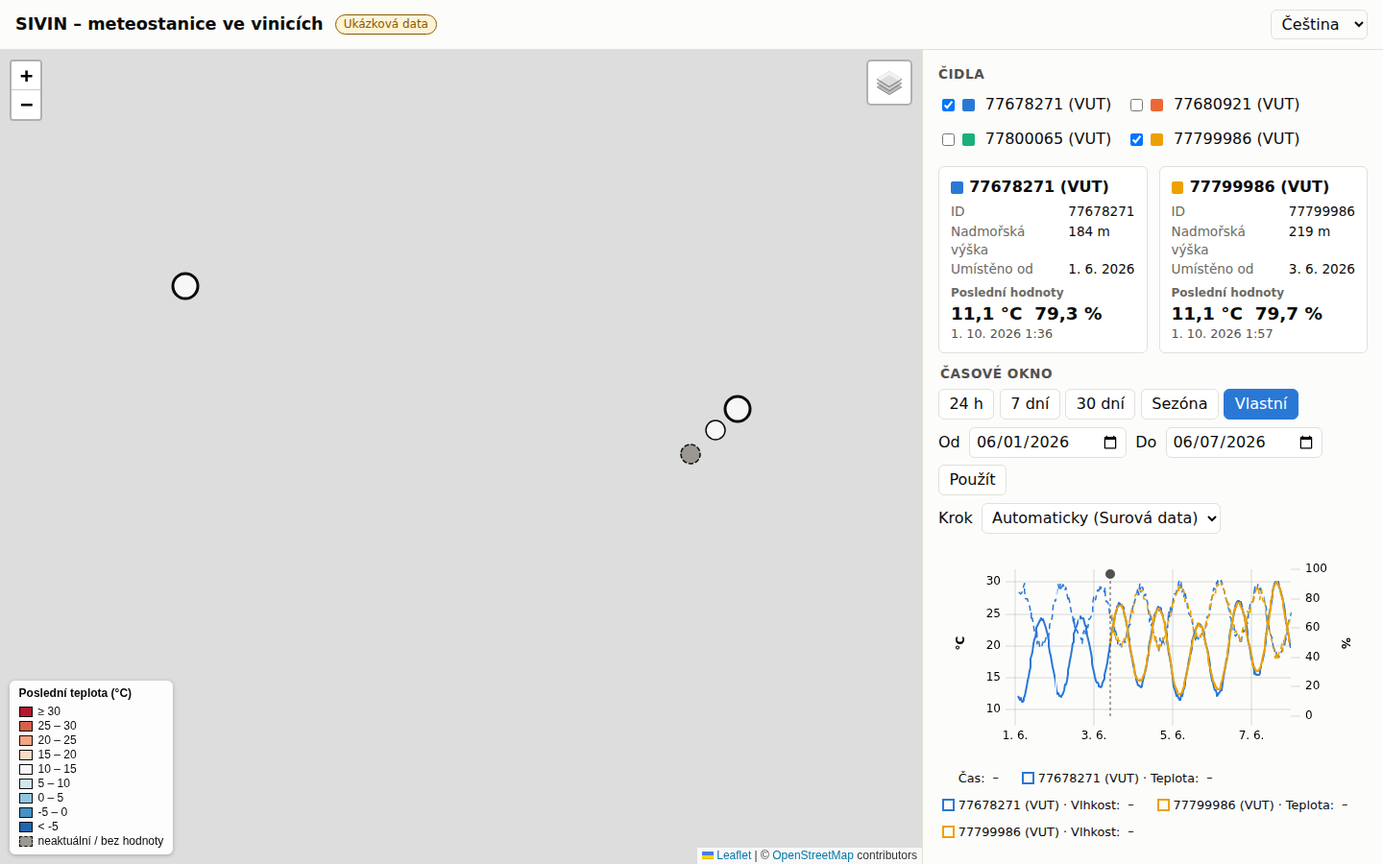
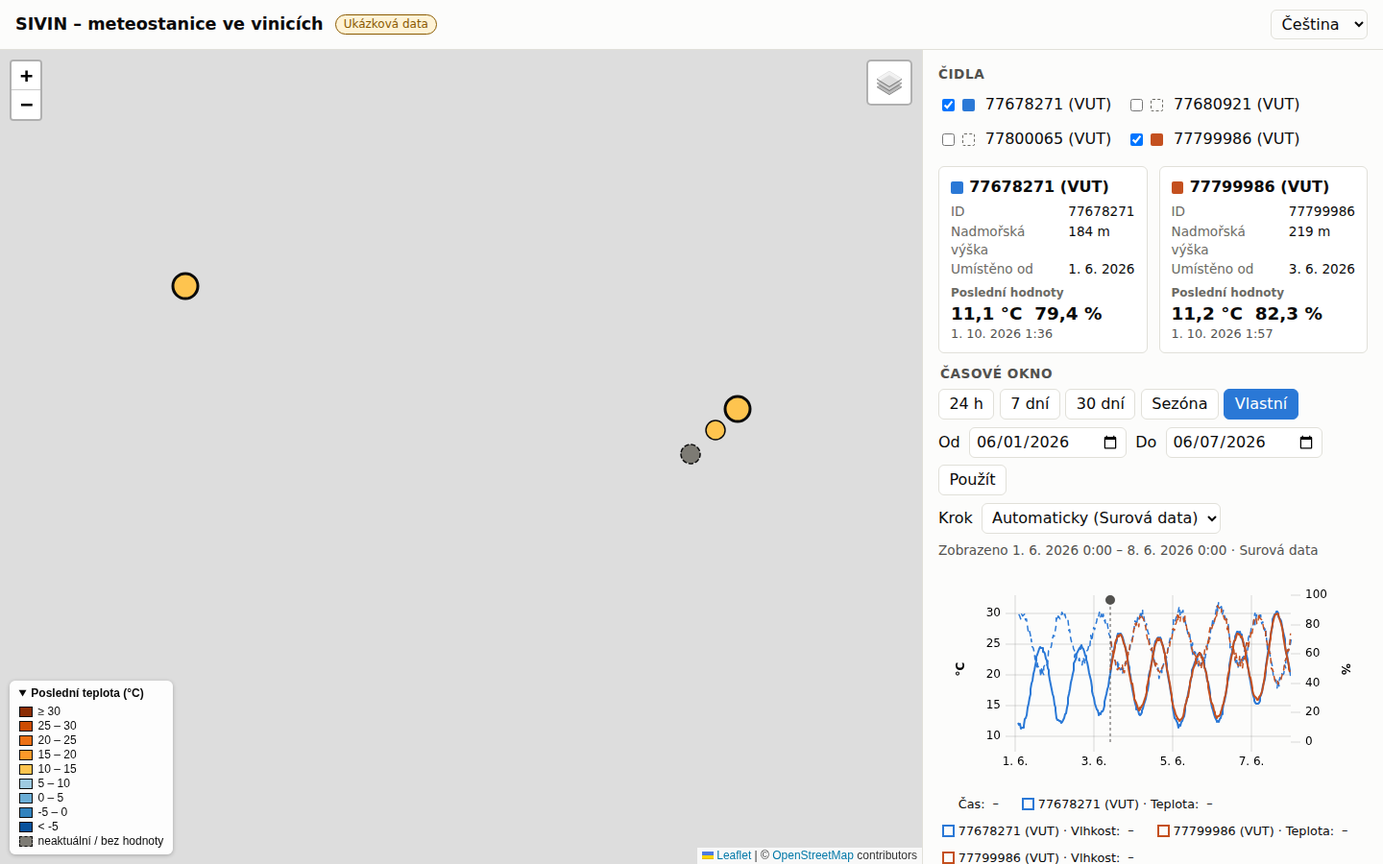
docs(web): update docs, screenshots and hand-off for review round 2 [WP-3.1]
Claude-Session: https://claude.ai/code/session_01QJD7c9yWYF9155kG7NhzWc

diff --git a/docs/wp_log/WP-3.1.md b/docs/wp_log/WP-3.1.md
@@ -13,6 +13,46 @@ the app runs on a deterministic **synthetic** fixture in `web/public/data/` (547
 resolution and language are kept in the URL hash. A CI workflow `.github/workflows/web.yml` runs
 the four web gates. Architecture and usage are in `docs/web.md`.
 
+## Changes in round 2
+
+These address the round-1 review; the statuses are in the Review table below.
+
+- **URL robustness (major):** the hash codec accepts only real calendar dates (they must
+  round-trip through `Date`) and years 2000–2100, for both `from`/`to` and `y`. As a safety net,
+  `ChartPresenter.windowFor` falls back to the default 7-day window if a window cannot be built.
+- **Store notifications are no longer re-entrant,** and `HashSync` always writes the latest
+  state. Unknown sensor ids are now removed from the URL after a `hashchange` (there is a test).
+- **Per-sensor loading:** a sensor that fails gets its own error line above the chart, and the
+  others still render. A missing or invalid events file means "no events" plus a
+  `console.warn`.
+- **QC display mask:** the web uses `DISPLAY_EXCLUDE_MASK`, the default mask without MISSING. A
+  `null` value already means missing, so a valid temperature is no longer hidden when only RH is
+  null. All other excluding flags still hide the whole row.
+- **UTC raw months:** documented in `docs/web.md` as the interpretation WP-3.2 must follow, and
+  added to the owner questions. The month selection was not widened.
+- **Accessibility:**
+  - Map markers are keyboard buttons: `role="button"`, in the tab order, with an accessible
+    name and `aria-pressed`. Enter/Space selects; Ctrl/⌘ + Enter/Space compares.
+  - Only the chart canvas has `role="img"`, so the legend and event buttons stay accessible.
+- **Colours:**
+  - Line colours are assigned in selection order (`SensorColors`) and are stable while a sensor
+    stays selected, so the at most 8 compared sensors never share a colour.
+  - New line palette: all colours ≥ 3:1 against white and colour-blind checked; the ratios are
+    in `docs/web.md`.
+  - The stale fill is darker (4.24:1).
+  - The map scale now has no near-white class: blues below 10 °C and YlOrBr from 10 °C up.
+- **Map legend:** it is a `<details>` element, collapsed by default below 600 px.
+- **Concrete window:** a line under the time controls shows the window actually drawn (local
+  from–to) and the resolution.
+- **Hourly means** are stamped at the bin centre (`h + 1800`).
+- **Point caps:** an explicit raw resolution is capped at 31 days and hourly at 92 days. Beyond
+  that, the next coarser resolution is used.
+- **Fixture:** samples now have ±3 s clock jitter, and the fixture was regenerated (546,421 bytes).
+- **Code structure and tests:**
+  - `SeriesChart` was split; the event markers are now `ui/EventMarkers.ts`.
+  - `App` depends on small view interfaces, and is now covered by a jsdom test with stub views.
+  - `EventMarkers` is tested with a fake uPlot.
+
 ## Changed files
 
 - `web/package.json`, `web/package-lock.json`, `web/tsconfig.json`, `web/vite.config.ts`
@@ -26,9 +66,9 @@ the four web gates. Architecture and usage are in `docs/web.md`.
 - `web/src/state/*`: `Store`, `AppState` (+ selection helpers), `HashStateCodec`
 - `web/src/i18n/*`: `I18n`, `LanguagePreference`, `languages`, `cs`/`de`/`en`
 - `web/src/ui/*`: `App`, `HeaderView`, `MapView`, `SensorPanel`, `SensorList`,
-  `TimeWindowControl`, `SeriesChart`, `HashSync`, `palette`, `dom`; `web/src/styles.css`,
+  `TimeWindowControl`, `SeriesChart`, `EventMarkers`, `SensorColors`, `HashSync`, `palette`, `dom`; `web/src/styles.css`,
   `web/src/main.ts`, `web/src/vite-env.d.ts`
-- `web/tests/**`: 12 test files (96 tests)
+- `web/tests/**`: 14 test files (128 tests)
 - `web/scripts/generate-fixture.mjs`, `web/scripts/screenshot.mjs`
 - `web/public/data/**`: synthetic fixture (29 files incl. `README.md`)
 - `.github/workflows/web.yml`
@@ -43,20 +83,20 @@ Gates, run in `/home/user/wt/wp-3.1/web` after `rm -rf node_modules dist coverag
 ```
 npm run lint       → eslint . (no output, exit 0)
 npm run typecheck  → tsc --noEmit (no output, exit 0)
-npm test           → Test Files  12 passed (12)
-                     Tests  96 passed (96)
-                     Statements   : 99.58% ( 712/715 )
-                     Branches     : 88.53% ( 278/314 )
-                     Functions    : 100% ( 210/210 )
-                     Lines        : 99.56% ( 681/684 )
-npm run build      → dist/index.html 0.84 kB, dist/assets/index-*.css 23 kB,
-                     dist/assets/index-*.js 242 kB (gzip 81 kB), ✓ built
+npm test           → Test Files  14 passed (14)
+                     Tests  128 passed (128)
+                     Statements   : 99.43% ( 875/880 )
+                     Branches     : 89.24% ( 332/372 )
+                     Functions    : 100% ( 239/239 )
+                     Lines        : 99.4% ( 842/847 )
+npm run build      → dist/assets/index-*.css 23.5 kB,
+                     dist/assets/index-*.js 246.6 kB (gzip 82.0 kB), ✓ built
 ```
 
 - **Coverage scope:** `src/**/*.ts`, minimum 85 % lines (enforced in `vite.config.ts`).
-  Excluded as thin glue: `src/main.ts`, `src/ui/App.ts`, `src/ui/MapView.ts` (Leaflet) and
-  `src/ui/SeriesChart.ts` (uPlot/canvas). The DOM components without those libraries are tested
-  under jsdom.
+  Excluded as thin glue: `src/main.ts`, `src/ui/MapView.ts` (Leaflet) and
+  `src/ui/SeriesChart.ts` (uPlot/canvas). `App` (stub views), `EventMarkers` (fake uPlot) and
+  the other DOM components are tested under jsdom.
 - **Tests with hand-computed expectations:**
   - Contract validation: the whole fixture passes, and broken files fail with exact messages.
   - `DataClient.getRawRange`: month selection across a boundary, windows outside the data,
@@ -83,7 +123,17 @@ npm run build      → dist/index.html 0.84 kB, dist/assets/index-*.css 23 kB,
   - The language switch updates the title, the hash and `localStorage`.
   - An unknown sensor id in the hash is dropped.
   - Event markers are rendered.
-- **Fixture:** `npm run fixture` is deterministic (same md5 on rerun). It is 546,574 bytes,
+- **Round 2 browser checks:** headless Chromium against `vite preview`, using the reviewer's
+  `drive2.mjs` plus my own script. No page errors in any of them:
+  - URLs with `to=2026-13-45`, `0001…9999` + `r=hourly`, `y=0000`, and a `hashchange` to
+    `2026-02-30` all fall back to `w=7d` and the chart renders.
+  - All four markers have `tabindex=0`, `role=button` and a name like
+    `77678271 (VUT): 11,1 °C`, and Enter on a marker selects it.
+  - With a 404 on one raw month of 77680921 and on `events/77678271.json`, one per-sensor error
+    line is shown and 77678271 still renders.
+  - The canvas has `role=img`; the plot host has no role.
+  - The legend is collapsed at 390 px and opens on click; it is open at 1440 px.
+- **Fixture:** `npm run fixture` is deterministic (same md5 on rerun). It is 546,421 bytes,
   well under 3 MB.
 
 Screenshots (Chromium, `npm run screenshot`). Map tiles are **blank** because the sandbox cannot
@@ -106,12 +156,13 @@ reach the OpenStreetMap tile servers:
   synthetic fixture.
 - **Browsers and devices:** only headless Chromium was tested; no Firefox, Safari or real phones.
   No screen-reader test was done.
-- **Map keyboard access:** Leaflet circle markers are not keyboard-focusable. The keyboard path is
-  the checkbox list in the panel.
+- **Map keyboard access:** since round 2 the markers are keyboard buttons (Tab, Enter/Space,
+  Ctrl/⌘ + Enter/Space). This was checked only in headless Chromium, with no screen reader. In
+  round 1 this note wrongly said the markers were not focusable.
 - **Date inputs:** the native `<input type="date">` shows the browser's locale (US format in
   headless Chromium), not the UI language.
-- **`ui/App.ts`:** not unit-tested. Its behaviour was only checked with the headless interaction
-  script above, which is not committed.
+- **Event markers and per-sensor errors:** checked in Chromium and with jsdom tests; not checked
+  with a screen reader.
 
 ## Deviations from the brief (and why)
 
@@ -129,10 +180,12 @@ reach the OpenStreetMap tile servers:
   30 Sep, would show an empty 24 h / 7 d chart; real data lag behind by up to a cron interval.
 - **7 d / 30 d count local calendar days** (same wall-clock time), so they are 7 d ± 1 h across a
   DST change. 24 h is exactly 86,400 s.
-- **QC-excluded samples are hidden at raw resolution too**, not only in hourly means, so the
+- **QC-excluded samples are hidden at raw resolution too** (with `DISPLAY_EXCLUDE_MASK` since round 2, i.e. MISSING is handled per value), not only in hourly means, so the
   office period of a sensor appears as a gap before its deployment marker.
-- **Hourly means are stamped with the start of the hour.**
-- **Comparison is capped at 8 sensors**, the size of the colour-blind-checked palette. A further
+- **Hourly means are stamped at the centre of the hour** (round 2; round 1 used the start).
+- **Point caps:** an explicitly chosen raw resolution is capped at 31 days and hourly at 92
+  days; beyond that, the next coarser resolution is used.
+- **Comparison is capped at 8 sensors**, the size of the colour-blind-checked palette. Colours are assigned in selection order. A further
   sensor is refused with a message.
 - **The fixture placement dates are synthetic** (1 Jun 2026, and 3 Jun for 77799986). The plan's
   §2.4 example uses `2025-12-01` as its own placeholder. Real dates wait for Q3.
@@ -164,10 +217,27 @@ reach the OpenStreetMap tile servers:
 2. **Two y-axes:** temperature (left) and humidity (right) share one chart, as the brief
    requires. Dataviz guidelines advise against dual axes; the alternative is two stacked charts
    with a shared time axis. Keep it as is?
-3. **Marker colours:** the map's neutral class 10–15 °C is almost white, so on a mild day the
+3. **Marker colours** (resolved in round 2: the scale now uses blues below 10 °C and YlOrBr
+   from 10 °C up, with no near-white class; please confirm you like it). Original question: the map's neutral class 10–15 °C is almost white, so on a mild day the
    markers look empty (see the desktop screenshot, 11 °C). Is the diverging scale centred near
    the vine base temperature acceptable, or would you prefer a sequential scale?
-4. **Should relative presets end at "now"** instead of at the end of the data?
+4. **Should relative presets end at "now"** instead of at the end of the data? The concrete
+   window is now shown under the controls.
+5. **Contract clarification of §2.6: raw months are UTC months.** The web reads
+   `raw/<YYYY-MM>.json` as the UTC calendar month and expects `raw_months` to list UTC keys.
+   §2.6 does not say this. Please confirm, so that WP-3.2 writes UTC months; with local months,
+   up to two hours around each month boundary would be lost.
+6. **Per-variable QC flags:** `qc` is one value per row, but a row holds two variables. WP-0.1
+   raised the same question. Until it is decided:
+   - the web ignores MISSING for display (`null` already marks a missing value);
+   - every other excluding flag hides both variables of the row, so a temperature SPIKE also
+     hides that row's humidity.
+
+   Should `qc` become per variable (e.g. `qc_temp`, `qc_rh`)? That would be a contract change.
+7. **Complete list of lenient readings** (reviewer nit 12), adding to question 1: the validators
+   also accept a missing `site`, `variety` or `notes` in the registry (read as `null`), and
+   `null` for an index `value`. The cleaner contract is that WP-3.2 always writes these keys,
+   with `null` where needed.
 
 ## Review
 
@@ -211,21 +281,21 @@ Lint and typecheck: clean. Vitest: 12 files, 96 tests passed; lines 99.56 %, bra
 
 | Severity | File:line | Finding | Status |
 |---|---|---|---|
-| major | web/src/state/HashStateCodec.ts:79, web/src/domain/TimeZone.ts:111, web/src/domain/TimeWindowFactory.ts:68 | A malformed custom date in a shared URL breaks the whole app | open |
-| minor | web/src/ui/HashSync.ts:18 (with web/src/ui/App.ts:85-88) | After a `hashchange`, unknown sensor ids stay in the URL | open |
-| minor | web/src/app/ChartDataLoader.ts:53 | One missing or unexpected events file (or one failing raw month) fails the chart for every selected sensor | open |
-| minor | web/src/domain/RawSeries.ts:73 | The row-level `qc` with MISSING hides a valid temperature when only RH is missing (seen in the fixture) | open (owner question) |
-| minor | web/src/data/DataClient.ts:102 | `raw/<YYYY-MM>` is read as a UTC month, which §2.6 does not say | open (owner question) |
-| minor | web/src/ui/MapView.ts:62 | Map markers are unnamed, inoperable tab stops; the hand-off says they are not focusable | open |
-| minor | web/src/ui/SeriesChart.ts:65 | `role="img"` wraps the uPlot legend and the focusable event-marker buttons | open |
-| minor | web/src/ui/palette.ts:19 | Colour by registry index wraps at 8, so two compared sensors can share a colour | open |
-| minor | web/src/ui/palette.ts:7-16 | Several sensor line colours are below 3:1 against white | open |
-| minor | web/src/ui/TimeWindowControl.ts (render) | Relative presets end at the data end, but the concrete window is never shown | open |
-| nit | web/src/domain/Resampler.ts:56 | Hourly means stamped at the start of the hour draw 30 min early compared with raw | open |
-| nit | web/src/contract/validateSensors.ts:39-45, validateMeta.ts:394 | Lenient readings go beyond the hand-off list | open |
-| nit | web/src/domain/Resampler.ts:44-45 | No bound on the hourly bin count | open |
-| nit | web/scripts/generate-fixture.mjs | The fixture step is exactly 1825 s with no clock drift or jitter | open |
-| nit | web/vite.config.ts:310-315 | `App.ts` is excluded from coverage, but it is coordination logic | open |
+| major | web/src/state/HashStateCodec.ts:79, web/src/domain/TimeZone.ts:111, web/src/domain/TimeWindowFactory.ts:68 | A malformed custom date in a shared URL breaks the whole app | fixed (round 2): only real dates in years 2000–2100 are accepted; `windowFor` falls back to the default window; tests added |
+| minor | web/src/ui/HashSync.ts:18 (with web/src/ui/App.ts:85-88) | After a `hashchange`, unknown sensor ids stay in the URL | fixed (round 2): store notifications are not re-entrant and `HashSync` writes the latest state; `App.test.ts` covers this |
+| minor | web/src/app/ChartDataLoader.ts:53 | One missing or unexpected events file (or one failing raw month) fails the chart for every selected sensor | fixed (round 2): data load per sensor with a per-sensor error line; events fall back to none plus a warning |
+| minor | web/src/domain/RawSeries.ts:73 | The row-level `qc` with MISSING hides a valid temperature when only RH is missing (seen in the fixture) | fixed in the web (round 2): `DISPLAY_EXCLUDE_MASK` without MISSING, documented; per-variable QC is open question 6 |
+| minor | web/src/data/DataClient.ts:102 | `raw/<YYYY-MM>` is read as a UTC month, which §2.6 does not say | accepted (round 2): UTC months kept and documented in `docs/web.md` for WP-3.2; open question 5 |
+| minor | web/src/ui/MapView.ts:62 | Map markers are unnamed, inoperable tab stops; the hand-off says they are not focusable | fixed (round 2): `role=button`, a name, `aria-pressed`, Enter/Space; docs updated |
+| minor | web/src/ui/SeriesChart.ts:65 | `role="img"` wraps the uPlot legend and the focusable event-marker buttons | fixed (round 2): `role=img` and the name are on the canvas only |
+| minor | web/src/ui/palette.ts:19 | Colour by registry index wraps at 8, so two compared sensors can share a colour | fixed (round 2): colours are assigned in selection order and stay stable while selected (`SensorColors`) |
+| minor | web/src/ui/palette.ts:7-16 | Several sensor line colours are below 3:1 against white | fixed (round 2): new palette with all colours ≥ 3:1 and CVD checked; ratios documented and tested |
+| minor | web/src/ui/TimeWindowControl.ts (render) | Relative presets end at the data end, but the concrete window is never shown | fixed (round 2): a "Zobrazeno from – to · resolution" line under the controls |
+| nit | web/src/domain/Resampler.ts:56 | Hourly means stamped at the start of the hour draw 30 min early compared with raw | fixed (round 2): stamped at the bin centre |
+| nit | web/src/contract/validateSensors.ts:39-45, validateMeta.ts:394 | Lenient readings go beyond the hand-off list | accepted (round 2): the lenient readings are kept, and the complete list is now open question 7 |
+| nit | web/src/domain/Resampler.ts:44-45 | No bound on the hourly bin count | fixed (round 2): URL years are limited to 2000–2100, explicit hourly is capped at 92 days and raw at 31 days |
+| nit | web/scripts/generate-fixture.mjs | The fixture step is exactly 1825 s with no clock drift or jitter | fixed (round 2): ±3 s Gaussian clock jitter added |
+| nit | web/vite.config.ts:310-315 | `App.ts` is excluded from coverage, but it is coordination logic | fixed (round 2): `App` is covered by a jsdom test with stub views; `SeriesChart` was split (204 lines incl. imports; `EventMarkers` is 91) |
 
 #### Details
 

diff --git a/docs/web.md b/docs/web.md
@@ -42,7 +42,7 @@ main.ts  (composition root: builds every object, injects collaborators through c
   ├─ state/     Store<T>, AppState, HashStateCodec                    (no DOM)
   ├─ i18n/      I18n, LanguagePreference, cs/de/en dictionaries
   └─ ui/        App, HeaderView, MapView, SensorPanel, SensorList, TimeWindowControl,
-                SeriesChart, HashSync, palette, dom
+                SeriesChart, EventMarkers, SensorColors, HashSync, palette, dom
 ```
 
 Dependencies point downwards only: `ui` → `app` → `domain`/`data` → `contract`. There are no
@@ -53,24 +53,26 @@ globals or singletons; `main.ts` is the only place that touches `window`, `fetch
 |---|---|
 | `contract/types.ts` | TypeScript mirror of §2.6 (`Manifest`, `LatestFile`, `RawMonthFile`, `DailyFile`, `EventsFile`, `IndicesFile`, `SensorsGeoJSON` with the registry properties of §2.4). |
 | `contract/validate*.ts`, `FieldReader`, `ContractError` | Hand-written runtime validation of every file. A mismatch throws `ContractError` with file, JSON path and problem, e.g. `manifest.json: $.schema_version must be one of [1], got 2`. Unknown extra fields are ignored (forward compatible); `schema_version` must be exactly 1. |
-| `data/DataClient` | Fetches contract files relative to the data base URL, validates and caches them (one request per file per page load; failed requests are retried on the next call). `getRawRange(id, start, end)` picks the UTC months overlapping `[start, end)` that the manifest lists, fetches them in parallel and merges them into one `RawSeries`. A listed month that cannot be loaded is an error; months not listed are skipped. |
+| `data/DataClient` | Fetches contract files relative to the data base URL, validates and caches them (one request per file per page load; failed requests are retried on the next call). `getRawRange(id, start, end)` picks the **UTC** months overlapping `[start, end)` that the manifest lists, fetches them in parallel and merges them into one `RawSeries`. A listed month that cannot be loaded is an error; months not listed are skipped. |
 | `domain/RawSeries` | Columnar raw samples of one sensor, merged from monthly files, sorted by `t`, one sample per time. |
 | `domain/TimeSeries` | Immutable value object of one variable (`t[]`, `values[]`, `null` = no valid value). `withGapBreaks` inserts `null` where samples are too far apart so charts draw gaps. |
-| `domain/QcFlags` | `QcFlag` bits and `DEFAULT_EXCLUDE_MASK` = MISSING \| OUT_OF_RANGE \| SPIKE \| STUCK \| PRE_DEPLOYMENT \| MANUAL_EXCLUDE (§2.7); `QcMask` decides exclusion. |
-| `domain/Resampler` | Raw → chart series: QC-masked raw values (gap threshold 3 × 1825 s), or hourly means over UTC hours (time = start of the hour; an hour without valid values is `null`). Daily values are not computed in the browser; they come from `daily.json`. |
+| `domain/QcFlags` | `QcFlag` bits, `DEFAULT_EXCLUDE_MASK` = MISSING \| OUT_OF_RANGE \| SPIKE \| STUCK \| PRE_DEPLOYMENT \| MANUAL_EXCLUDE (§2.7) and the web's `DISPLAY_EXCLUDE_MASK` (the same without MISSING, see below); `QcMask` decides exclusion. |
+| `domain/Resampler` | Raw → chart series: QC-masked raw values (gap threshold 3 × 1825 s), or hourly means over UTC hours, stamped at the **centre** of the hour (`h + 1800`) so they line up with raw samples; an hour without valid values is `null`. Daily values are not computed in the browser; they come from `daily.json`. |
 | `domain/TimeZone` | Unix seconds ↔ wall-clock time of an IANA zone via `Intl` (DST-aware): local midnights, shifting by local days. |
 | `domain/WindowSpec`, `TimeWindow`, `TimeWindowFactory`, `ResolutionPolicy` | What the user asked for (`24h` / `7d` / `30d` / `season` / `custom`) → a concrete `[startT, endT)` with a resolution. Details below. |
 | `domain/alignSeries` | Puts several series on one union time axis for uPlot (`undefined` = no sample, skipped; `null` = gap). |
-| `app/SensorCatalog` | Joins `sensors.geojson`, manifest and `latest.json` into `SensorInfo` per sensor; colour index = registry position. |
-| `app/ChartDataLoader` | Loads raw / hourly / daily series and in-window events for the selected sensors. |
-| `app/ChartPresenter` | Resolves the window from the state, shows "loading", the data or an error; drops responses of superseded requests. |
-| `state/Store`, `AppState`, `HashStateCodec` | Observable immutable state (selection, window, resolution, language) and its URL-hash form, e.g. `#s=77678271,77680921&w=7d&r=hourly&lang=cs`, `#w=season&y=2026`, `#w=custom&from=2026-06-01&to=2026-06-15`. `r` is omitted for automatic resolution. |
+| `app/SensorCatalog` | Joins `sensors.geojson`, manifest and `latest.json` into `SensorInfo` per sensor. |
+| `app/ChartDataLoader` | Loads raw / hourly / daily series and in-window events **per sensor** (`Promise.allSettled`): a sensor whose series fail becomes a failure entry shown as a per-sensor error above the chart, the other sensors still render. A missing or invalid events file degrades to "no events" with a `console.warn`. |
+| `app/ChartPresenter` | Resolves the window from the state (falling back to the default window if a spec cannot be resolved), shows "loading", the data or an error; drops responses of superseded requests. |
+| `state/Store`, `AppState`, `HashStateCodec` | Observable immutable state (selection, window, resolution, language) and its URL-hash form, e.g. `#s=77678271,77680921&w=7d&r=hourly&lang=cs`, `#w=season&y=2026`, `#w=custom&from=2026-06-01&to=2026-06-15`. `r` is omitted for automatic resolution. Store notifications are not re-entrant: an update made inside a listener is applied at once but notified after the current change. The codec accepts only real calendar dates (they must round-trip through `Date`) and years 2000–2100; anything else in the hash is ignored. |
 | `i18n/I18n`, `LanguagePreference` | UI strings cs (default) / de / en, manifest labels, number/date formatting. Lookup: language → Czech → key. The language is stored in `localStorage` (every access in `try/catch`). Priority at start: URL hash → stored preference → Czech. |
-| `ui/MapView` | Leaflet map, OSM tiles (layer switch to OpenTopoMap), fit to sensors, circle markers coloured by latest temperature, grey with dashed outline when `stale` or missing, tooltip (label, value, local time), legend. Click selects one sensor, ctrl/⌘-click toggles it in the comparison. |
+| `ui/MapView` | Leaflet map, OSM tiles (layer switch to OpenTopoMap), fit to sensors, circle markers coloured by latest temperature, grey with dashed outline when `stale` or missing, tooltip (label, value, local time), legend as a `<details>` element (collapsed by default below 600 px). Click selects one sensor, ctrl/⌘-click toggles it in the comparison. Markers are keyboard controls: `role="button"`, in the tab order, accessible name "label: value", `aria-pressed` for the selection; Enter/Space selects, Ctrl/⌘ + Enter/Space compares. |
 | `ui/SensorPanel` | Right-hand panel (bottom sheet ≤ 760 px, collapsible): sensor list, metadata and latest values of the selected sensors, time-window controls, chart. |
 | `ui/SensorList` | Checkbox list of all sensors (keyboard path to the comparison). |
-| `ui/TimeWindowControl` | Preset buttons (`aria-pressed`), season year, custom from–to form, resolution selector whose "automatic" entry names the resolution it picks. |
-| `ui/SeriesChart` | uPlot chart: temperature (left axis, °C, solid) and relative humidity (right axis, %, dashed), one colour per sensor, events as dashed vertical lines with focusable markers and tooltips, x axis in the display time zone, resizes with its container. |
+| `ui/TimeWindowControl` | Preset buttons (`aria-pressed`), season year, custom from–to form, resolution selector whose "automatic" entry names the resolution it picks, and a line with the concrete window and resolution actually shown ("Zobrazeno 24. 9. 2026 0:00 – 1. 10. 2026 0:00 · Surová data"). |
+| `ui/SeriesChart` | uPlot chart: temperature (left axis, °C, solid) and relative humidity (right axis, %, dashed), one colour per compared sensor, x axis in the display time zone, resizes with its container, per-sensor load errors above it. Only the canvas has `role="img"` and a name; the legend table and event buttons stay in the accessibility tree. |
+| `ui/EventMarkers` | Sensor events on the chart: dashed vertical lines plus one focusable button per event with an accessible name and a tooltip (type, sensor, time, confidence, detail). |
+| `ui/SensorColors` | Line colours of the compared sensors, assigned in selection order; a sensor keeps its colour while selected, a new one takes the first free colour, so the (at most 8) compared sensors never share a colour. |
 | `ui/HeaderView` | Title, "demo data" badge, language switch. |
 | `ui/App` | Coordinates store and views: user actions update the store, changes re-render views and reload the chart. |
 | `ui/HashSync` | Two-way binding between store and `location.hash` (`replaceState`, no history spam). |
@@ -86,20 +88,47 @@ globals or singletons; `main.ts` is the only place that touches `window`, `fetch
 - `custom` = whole local days from–to, both inclusive.
 - Automatic resolution (`ResolutionPolicy`): ≤ 8 days raw, ≤ 62 days hourly, longer daily. The
   user can override it; the choice is part of the URL.
+- Point caps for an explicit choice: raw up to 31 days (+1 h; ≈ 1470 samples per sensor), hourly
+  up to 92 days (+1 h; ≤ 2209 points per sensor). Beyond a cap the next coarser resolution is
+  used, and the "shown" line under the controls names the resolution actually drawn.
+- A window that cannot be built (it should not happen after hash validation) falls back to the
+  default 7-day window instead of failing.
 
 ### Quality flags in the chart
 
-Samples whose QC flags hit `DEFAULT_EXCLUDE_MASK` are shown as gaps at raw resolution and left
-out of hourly means. Daily values are taken from `daily.json` as delivered by the pipeline.
-STEP, NEIGHBOR_OUTLIER and TIMESTAMP_SUSPECT are informative and do not hide data.
+`qc` is one flag set per row (§2.5/§2.6), while a row holds two values. The web therefore uses
+`DISPLAY_EXCLUDE_MASK` = OUT_OF_RANGE | SPIKE | STUCK | PRE_DEPLOYMENT | MANUAL_EXCLUDE, i.e. the
+plan's DEFAULT_EXCLUDE **without MISSING**:
+
+- MISSING is handled per value: a `null` value is missing, so a valid temperature is not hidden
+  because the humidity of the same row is `null` (and vice versa).
+- Every other excluding flag hides the whole row (both variables) at raw resolution and leaves
+  it out of hourly means. A temperature SPIKE therefore also hides that row's humidity; per-variable
+  QC flags would need a contract change (owner question).
+- STEP, NEIGHBOR_OUTLIER and TIMESTAMP_SUSPECT are informative and do not hide data.
+- Daily values are taken from `daily.json` as delivered by the pipeline.
 
 ### Colours
 
-- Map: classed diverging scale, ColorBrewer RdBu (9 classes, reversed; colour-blind safe), edges
-  −5 … 30 °C in 5 °C steps. The neutral class 10–15 °C contains 10 °C, the base temperature of
-  grapevine growing-degree days. Stale/missing = grey fill with dashed outline (not colour alone).
-- Chart: up to 8 compared sensors, categorical palette validated for colour-vision deficiency on
-  adjacent pairs; a sensor keeps its colour (registry order), temperature solid, humidity dashed.
+- Map: classed diverging scale with 9 classes, edges −5 … 30 °C in 5 °C steps. Below 10 °C (the
+  base temperature of grapevine growing-degree days) four blues from ColorBrewer "Blues", from
+  10 °C up five yellow-orange-browns from ColorBrewer "YlOrBr". There is no near-white class, so a
+  marker never looks empty; blue/orange is the pair best kept under colour-vision deficiency.
+  Stale/missing = grey fill `#7d7b74` with a dashed outline (not colour alone).
+- Chart: up to 8 compared sensors; temperature solid, humidity dashed. Line colours, checked with
+  the dataviz palette validator (light surface `#fcfcfb`; worst adjacent CVD ΔE 8.6, normal-vision
+  ΔE 15.8) and all ≥ 3:1 against white (WCAG 1.4.11):
+
+  | Colour | Contrast vs `#ffffff` |
+  |---|---|
+  | `#2a78d6` | 4.42 |
+  | `#c4501f` | 4.65 |
+  | `#0e8a5f` | 4.36 |
+  | `#9a6b00` | 4.69 |
+  | `#c2457a` | 4.74 |
+  | `#008300` | 4.95 |
+  | `#4a3aa7` | 8.56 |
+  | `#c62f2f` | 5.46 |
 
 ## Data loading (contract §2.6)
 
@@ -107,13 +136,22 @@ On start the app loads `manifest.json`, `sensors.geojson` and `latest.json` in p
 chart reload fetches, per selected sensor, `events/<id>.json` plus either the needed
 `series/<id>/raw/<YYYY-MM>.json` months (raw and hourly) or `series/<id>/daily.json` (daily).
 Every file is validated before use; a contract violation is shown as an error message in the
-panel instead of a silently wrong chart. `indices/<season>.json` is typed, validated and
+panel instead of a silently wrong chart.
+
+**Raw month files are UTC months.** `series/<id>/raw/<YYYY-MM>.json` contains exactly the samples
+with `t` in that calendar month in **UTC** (e.g. `2026-07` = `[2026-07-01T00:00Z,
+2026-08-01T00:00Z)`), and `raw_months` lists those UTC keys. §2.6 does not say this explicitly;
+this is the interpretation the web implements and **WP-3.2 (`SiteBuilder`) must follow** (it
+matches §1.5 "internally always UTC"). Months in Europe/Prague time would make up to two hours
+at each month boundary silently disappear from the chart. Listed as a contract clarification
+for the owner. `indices/<season>.json` is typed, validated and
 available through `DataClient.getIndices` but not displayed yet (WP-3.4).
 
 ## Synthetic fixture and real data
 
 `web/public/data/` holds a **synthetic** data set generated by `scripts/generate-fixture.mjs`
-(seeded PRNG, documented model, 4 real sensor positions, 1 Jun – 30 Sep 2026, ≈ 0.55 MB). It is
+(seeded PRNG, documented model, 4 real sensor positions, 1 Jun – 30 Sep 2026, step 1825 s with
+a per-sensor phase and ±3 s clock jitter, ≈ 0.55 MB). It is
 not a measurement; `public/data/README.md` says so and the UI shows a "demo data" badge.
 
 The badge is controlled at build time by `VITE_DEMO_DATA`: any value other than `false`
@@ -159,6 +197,6 @@ The contract fixes the raw columns to `temp_c` and `rh_pct` and the daily column
 
 `npm test` runs Vitest with V8 coverage over `src/**` and fails below 85 % of lines. Excluded
 from coverage, because they are thin glue over Leaflet, uPlot/canvas or the page bootstrap and
-are checked by the screenshots instead: `src/main.ts`, `src/ui/App.ts`, `src/ui/MapView.ts`,
-`src/ui/SeriesChart.ts`. DOM components without those libraries (`SensorPanel`,
-`TimeWindowControl`, `SensorList`, `HeaderView`, `HashSync`) are tested under jsdom.
+are checked in a real browser instead: `src/main.ts`, `src/ui/MapView.ts`,
+`src/ui/SeriesChart.ts`. `App` (with stub views), `EventMarkers` (with a fake uPlot) and the
+other DOM components are tested under jsdom.
